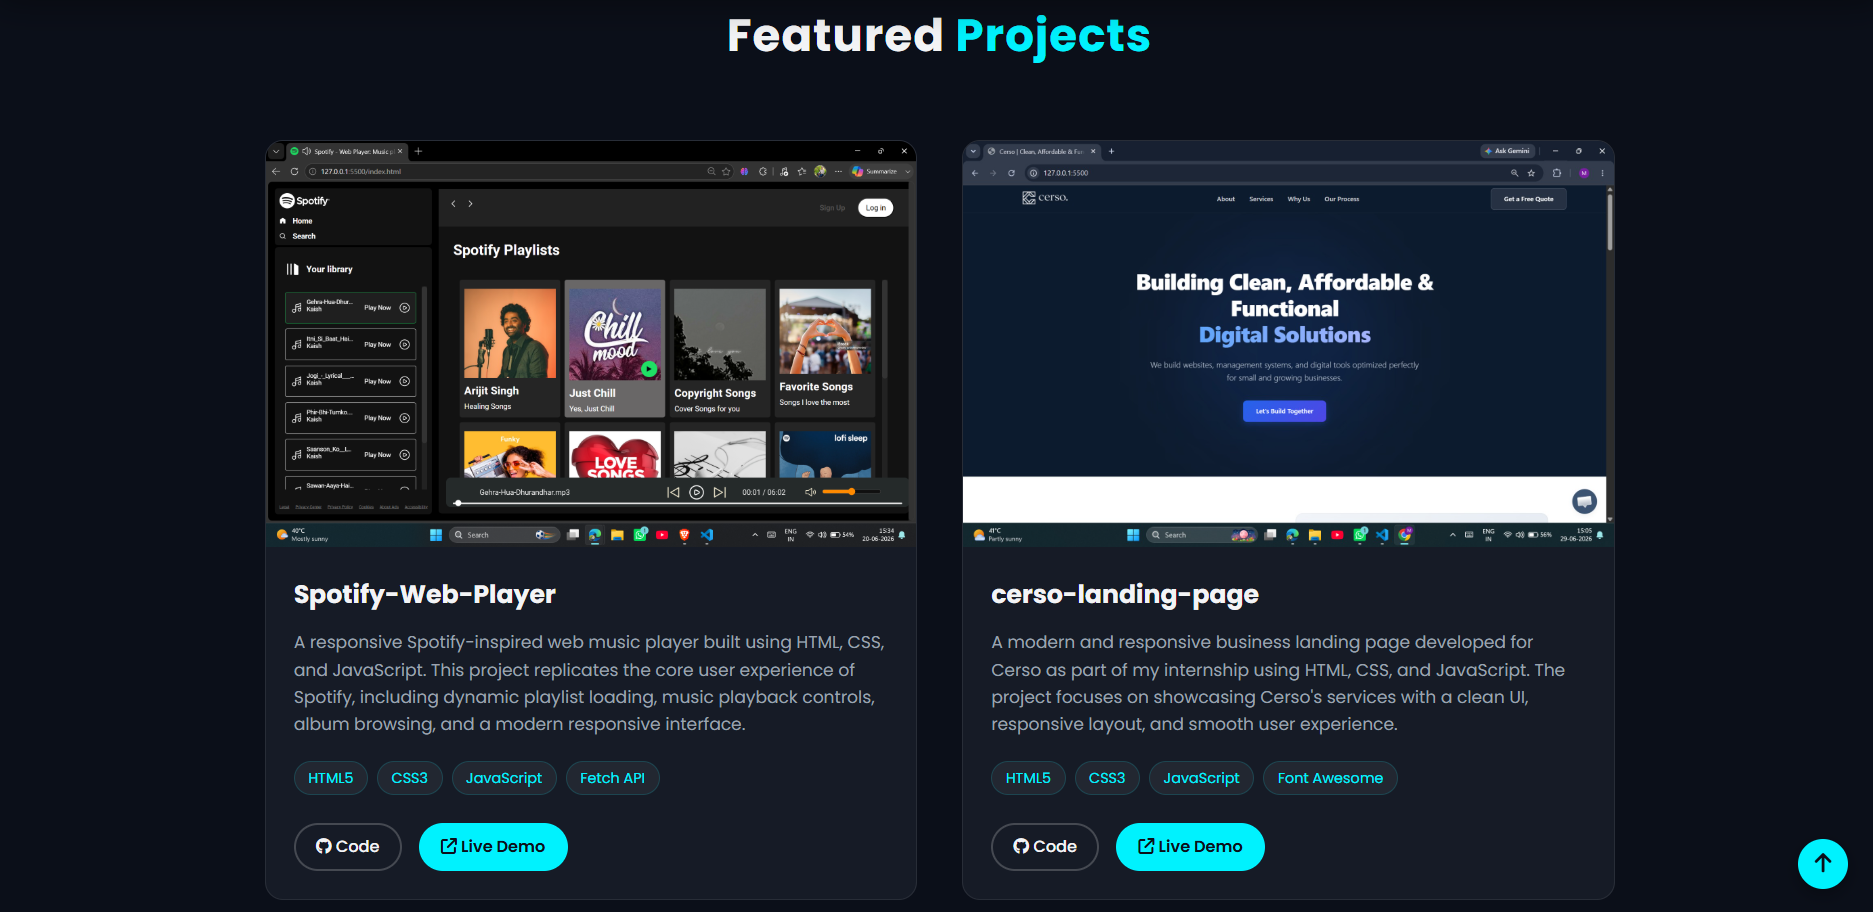
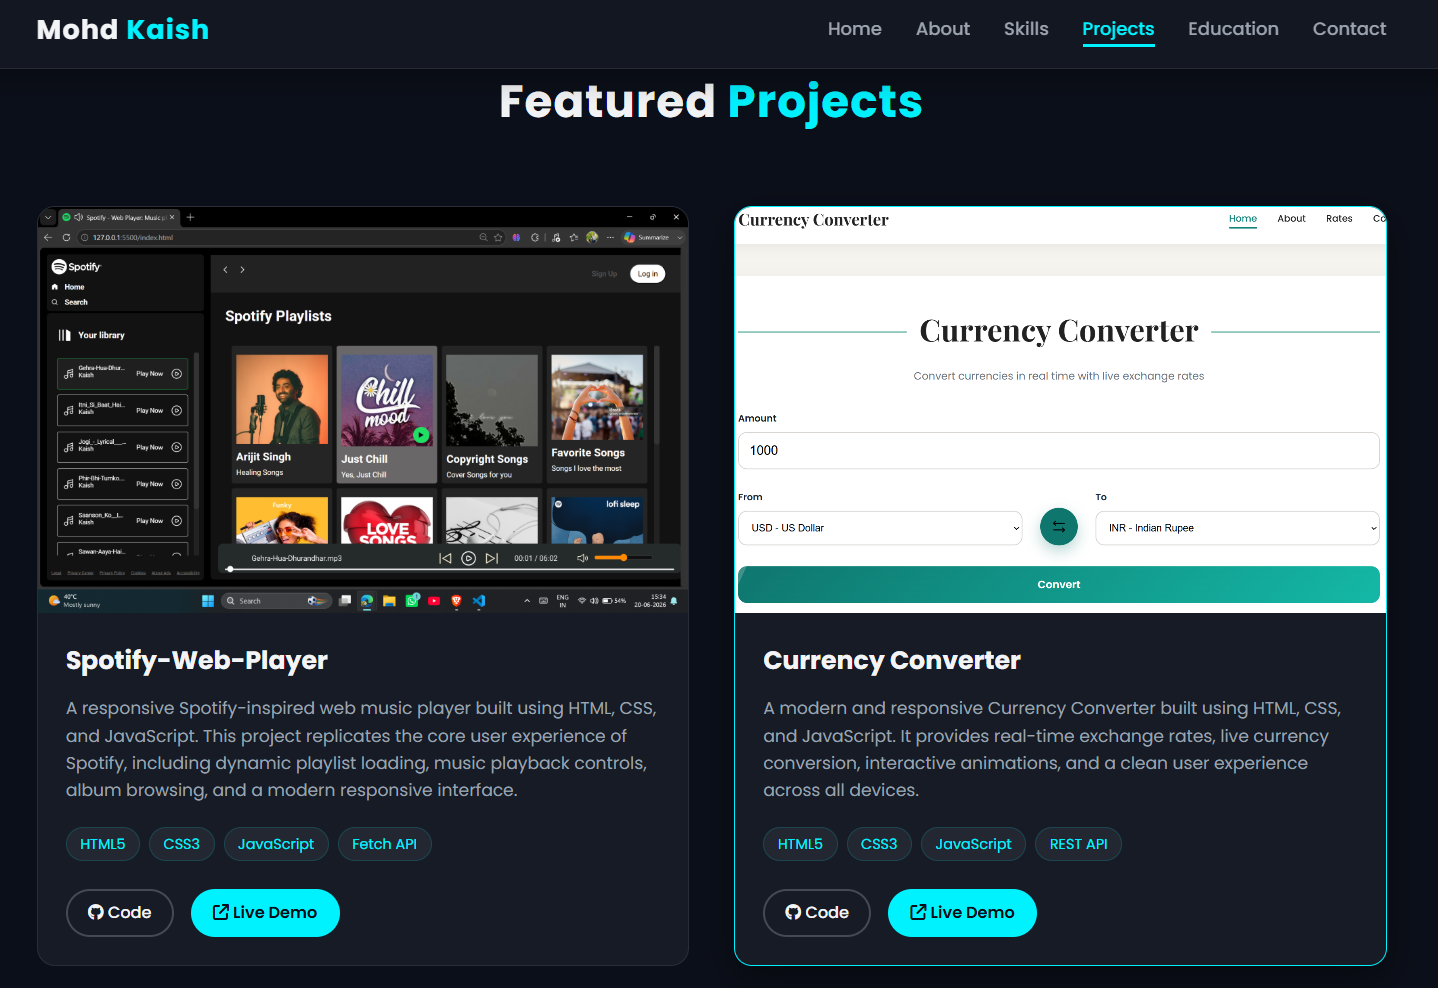
Updated Projects

diff --git a/index.html b/index.html
@@ -151,20 +151,20 @@
 
                     <div class="project-card reveal">
                         <div class="project-img-wrapper">
-                            <img src="assets/project2.jpeg" alt="Project Two Image" class="project-img">
+                            <img src="assets/Project2.png" alt="Project Two Image" class="project-img">
                         </div>
                         <div class="project-info">
-                            <h3>cerso-landing-page</h3>
-                            <p>A modern and responsive business landing page developed for Cerso as part of my internship using HTML, CSS, and JavaScript. The project focuses on showcasing Cerso's services with a clean UI, responsive layout, and smooth user experience.</p>
+                            <h3>Currency Converter</h3>
+                            <p>A modern and responsive Currency Converter built using HTML, CSS, and JavaScript. It provides real-time exchange rates, live currency conversion, interactive animations, and a clean user experience across all devices.</p>
                             <div class="tech-stack">
                                 <span>HTML5</span>
                                 <span>CSS3</span>
                                 <span>JavaScript</span>
-                                <span>Font Awesome</span>
+                                <span>REST API</span>
                             </div>
                             <div class="project-links">
-                                <a href="https://github.com/kaish10-hub/cerso-landing-page" target="_blank" class="btn btn-sm btn-secondary"><i class="fa-brands fa-github"></i> Code</a>
-                                <a href="https://cerso-landing-page.netlify.app/" target="_blank" class="btn btn-sm btn-primary"><i class="fa-solid fa-external-link"></i> Live Demo</a>
+                                <a href="https://github.com/kaish10-hub/currency-converter" target="_blank" class="btn btn-sm btn-secondary"><i class="fa-brands fa-github"></i> Code</a>
+                                <a href="https://quick-currencyconverter.netlify.app/" target="_blank" class="btn btn-sm btn-primary"><i class="fa-solid fa-external-link"></i> Live Demo</a>
                             </div>
                         </div>
                     </div>